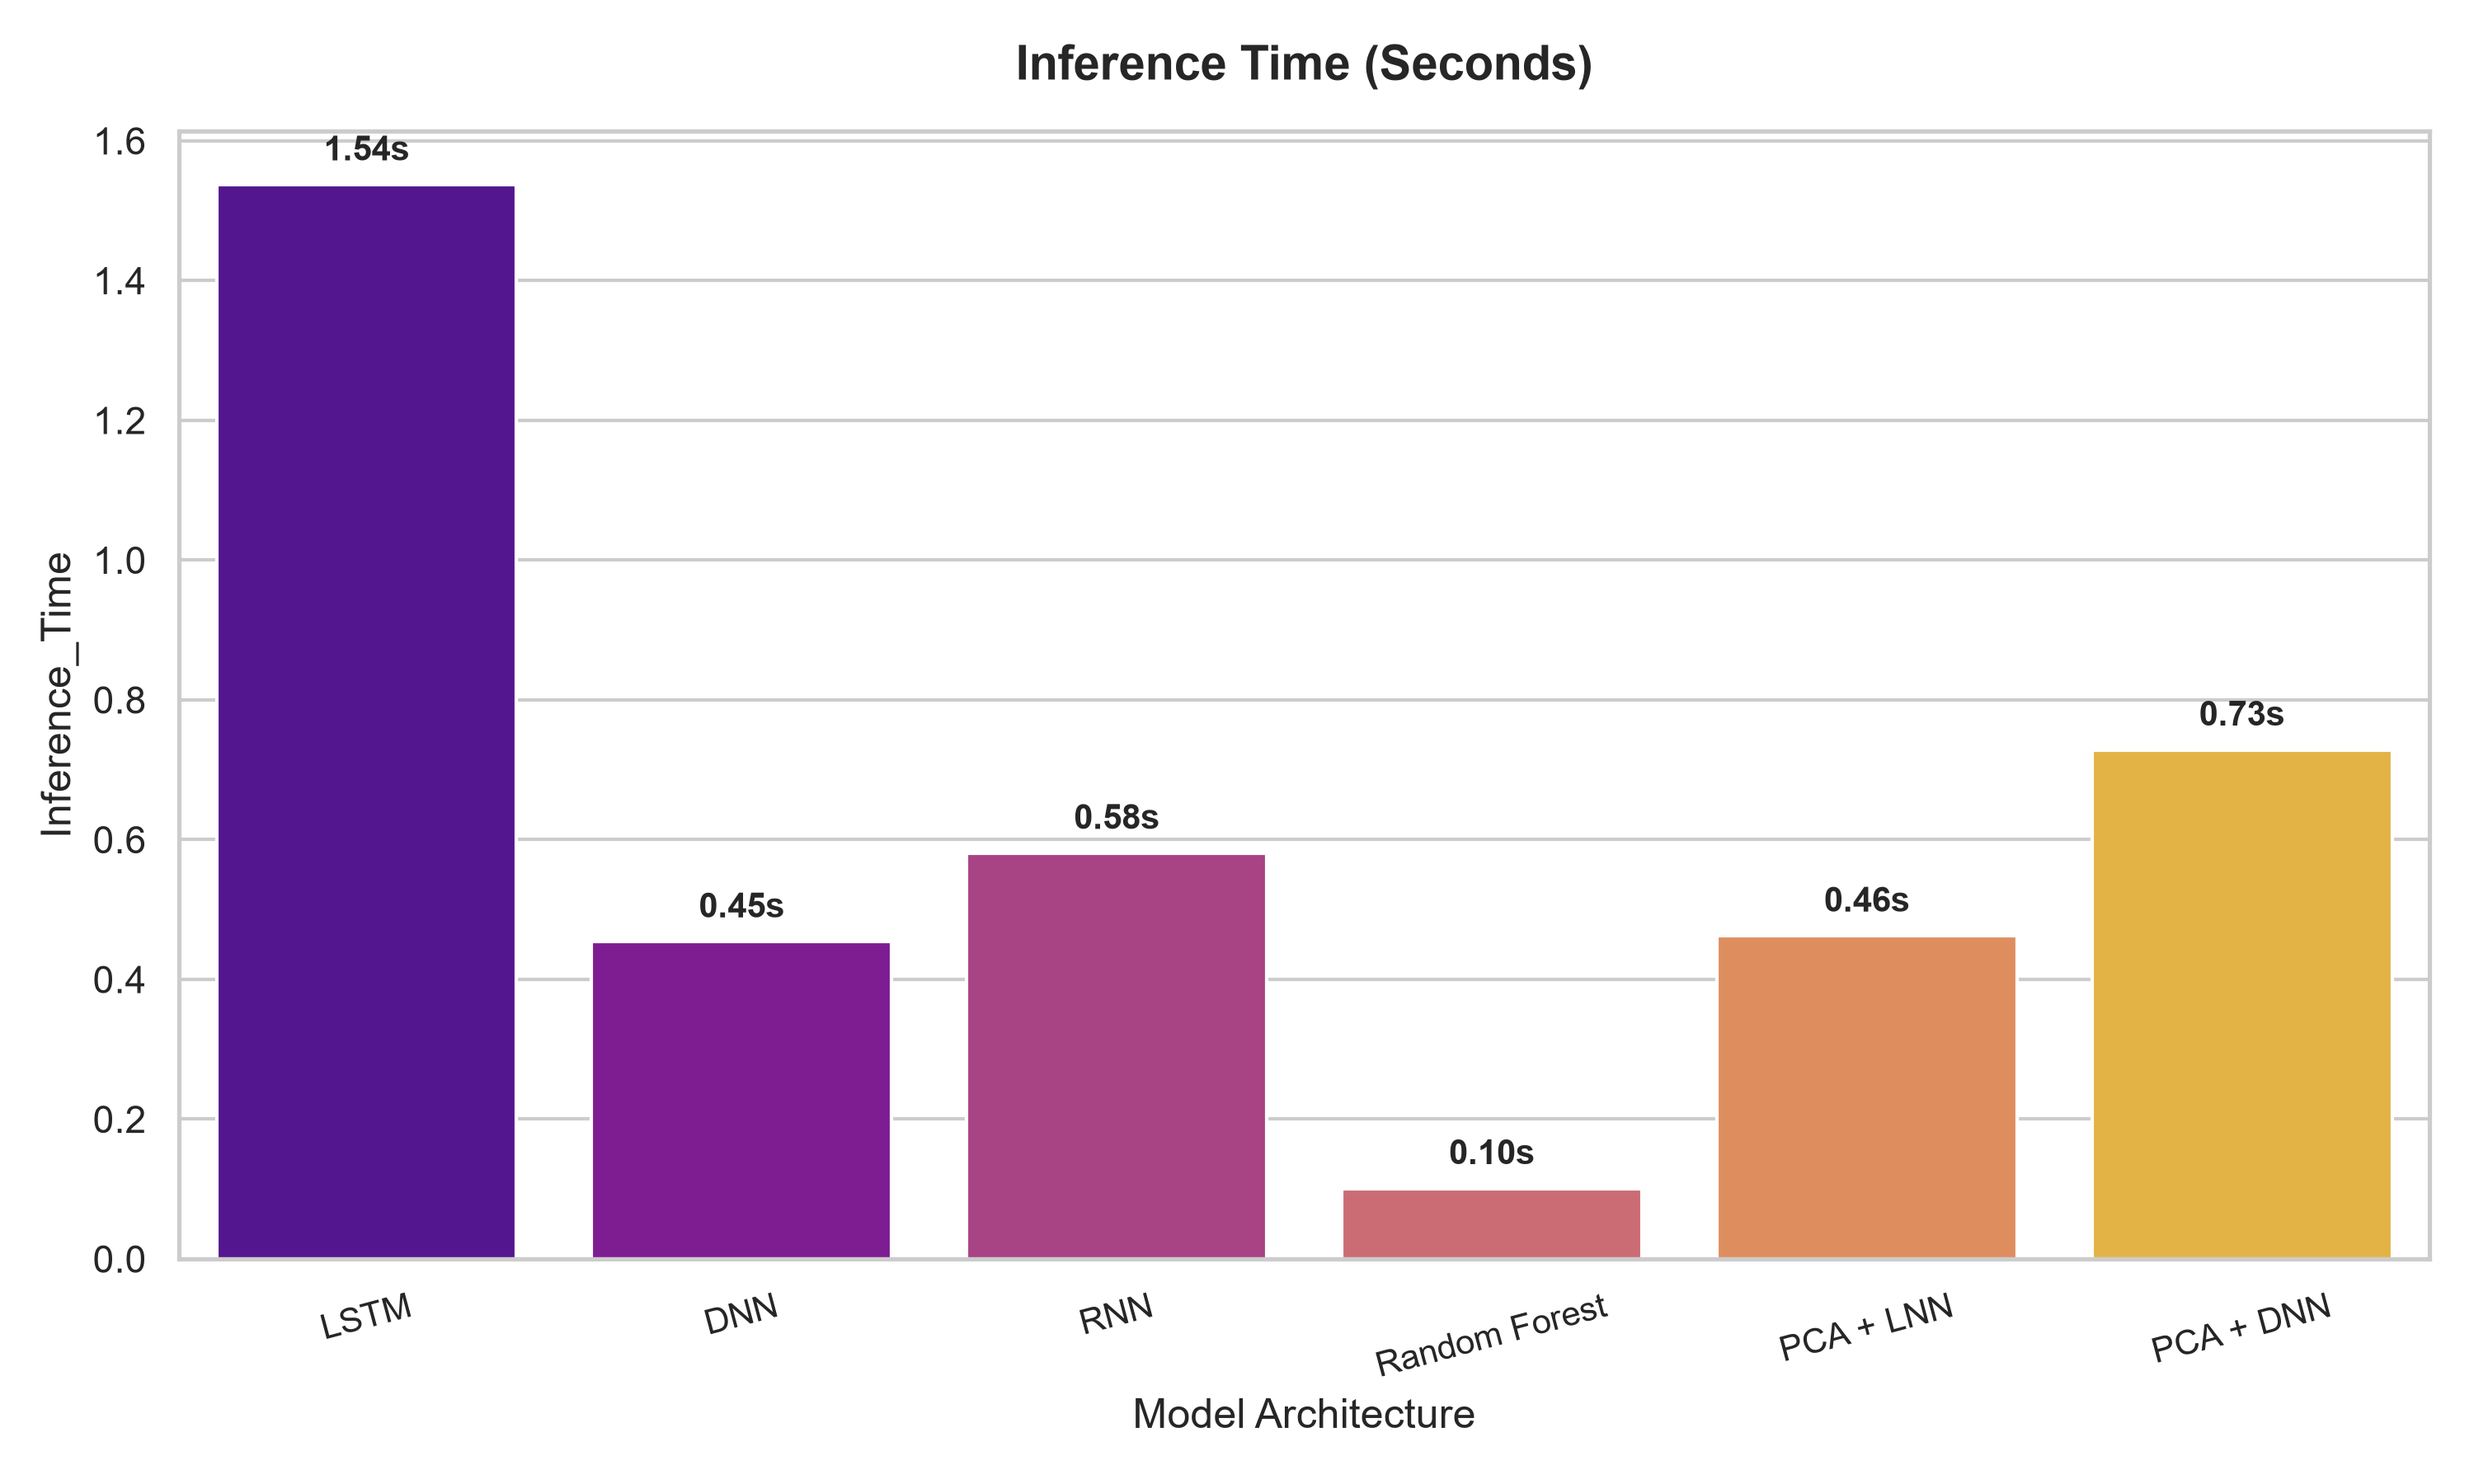
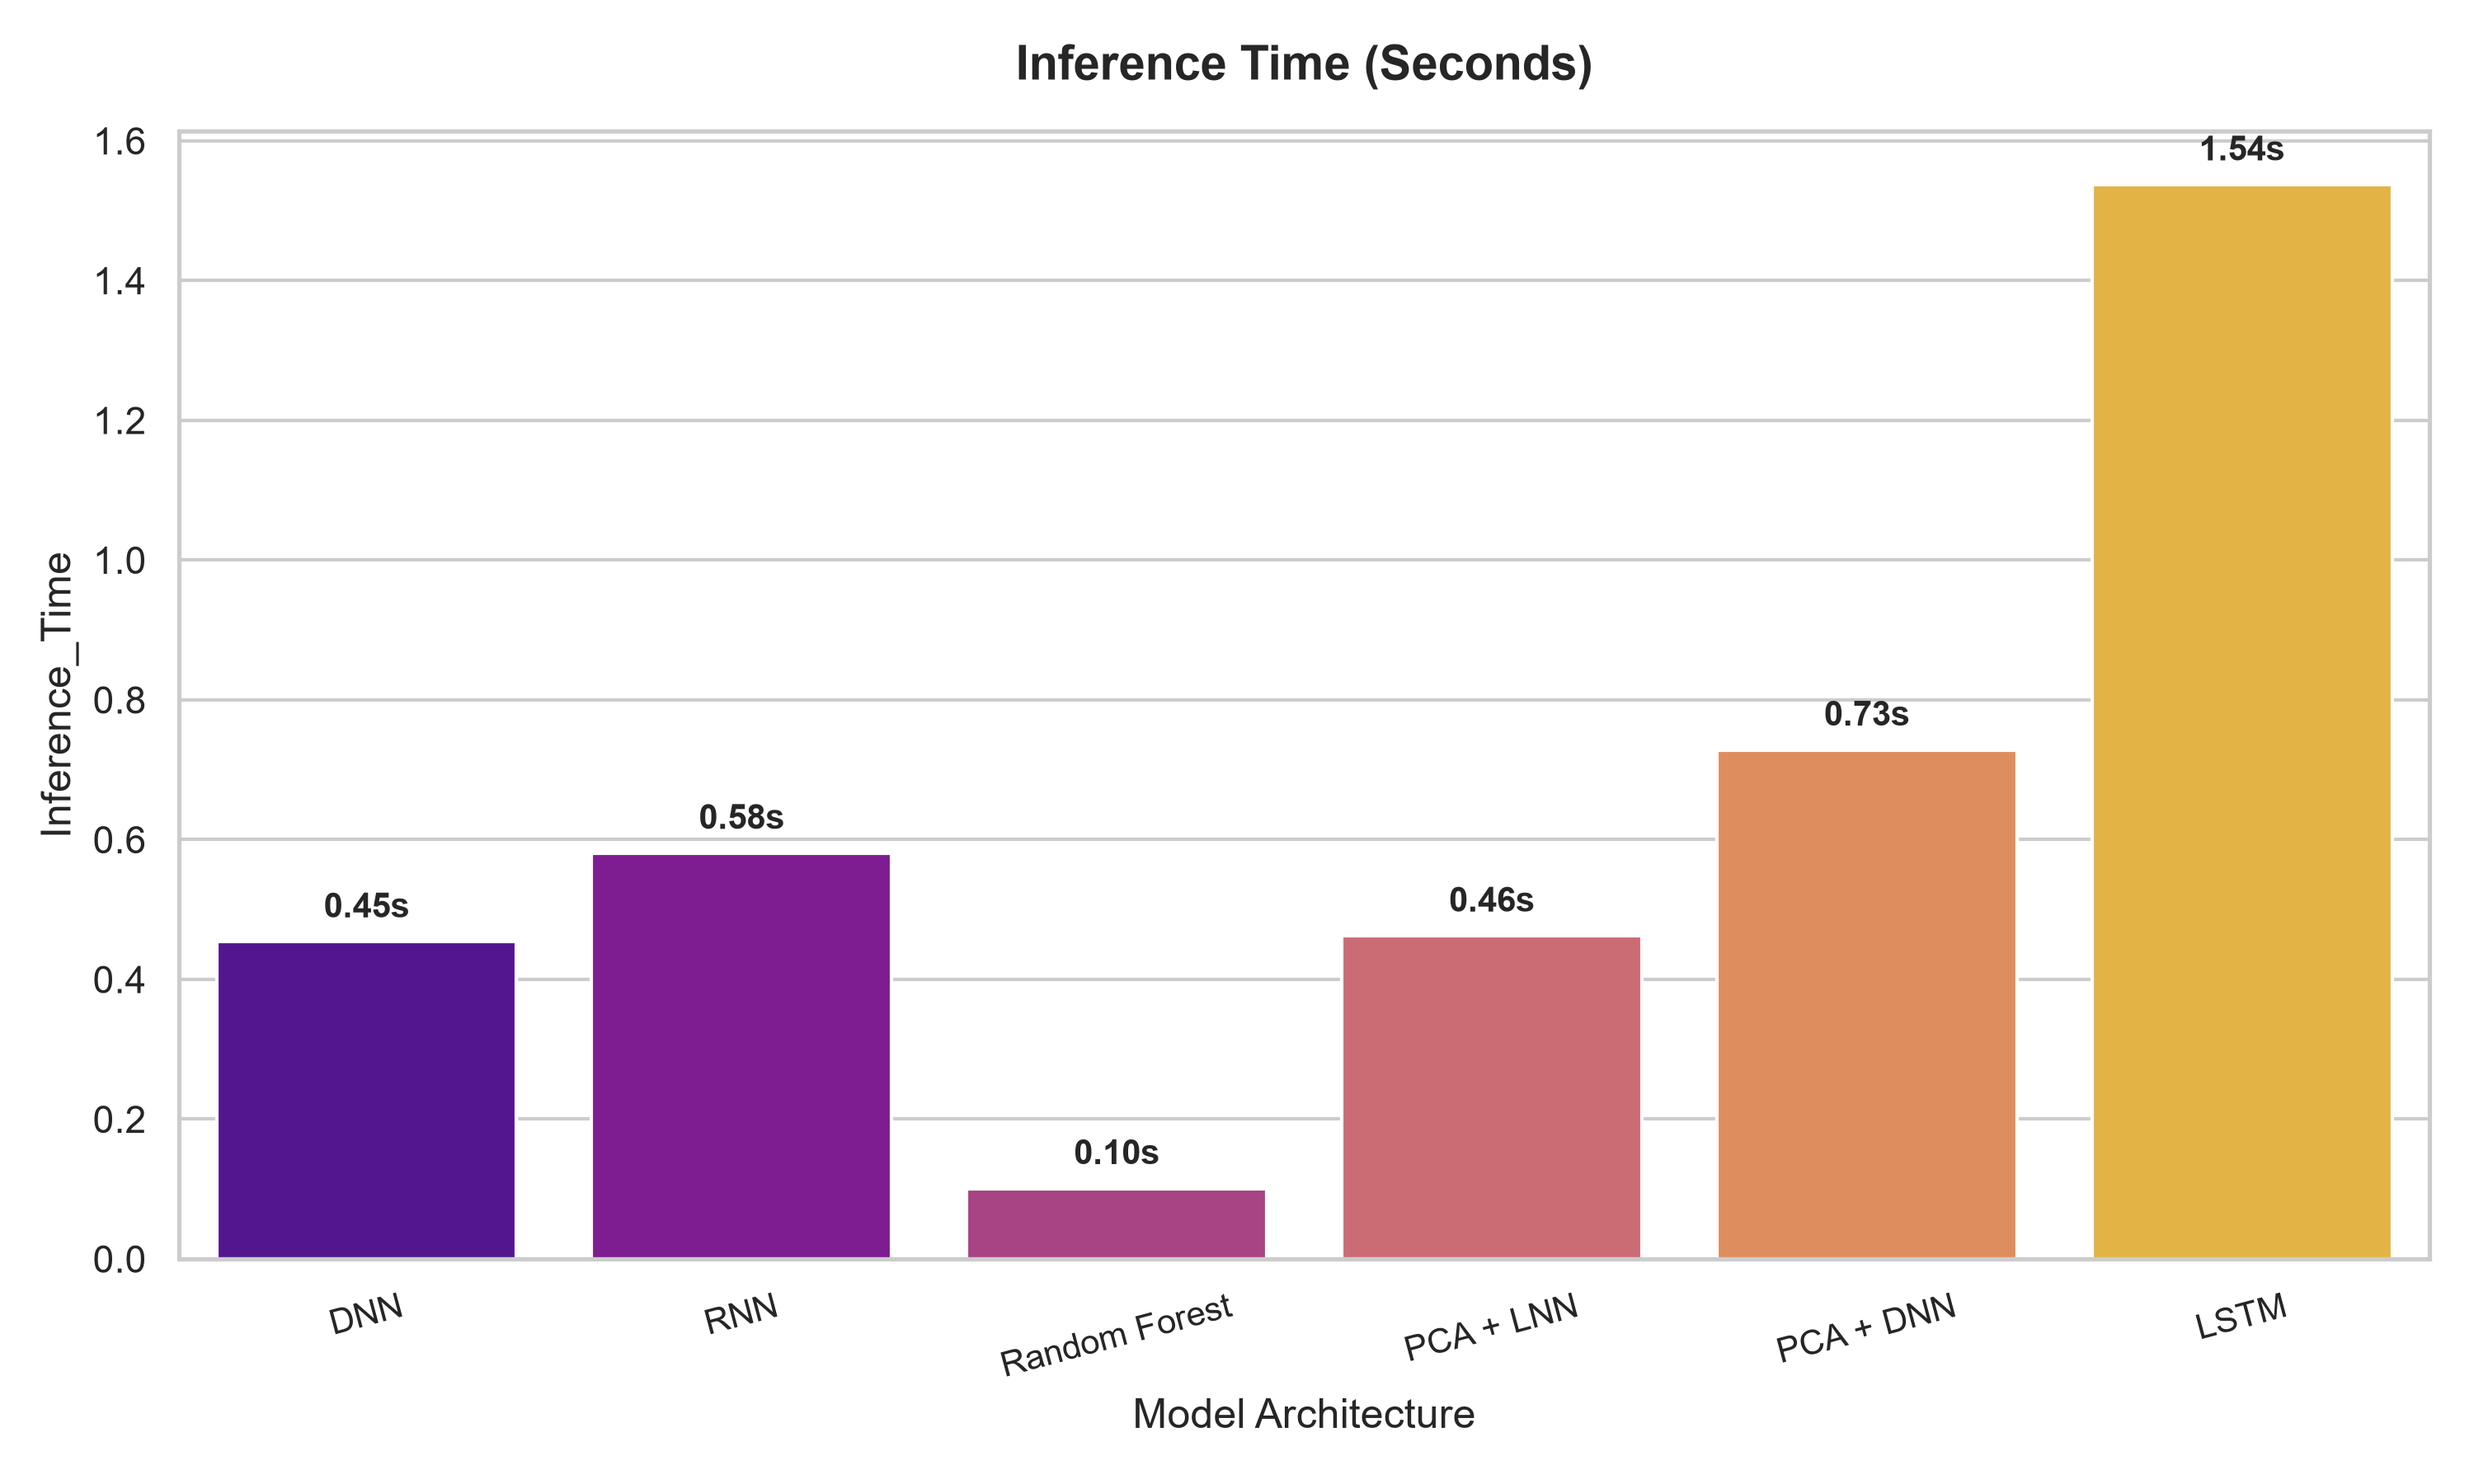
Output folder graph updated

diff --git a/IDS_CICIoT2023/preprocessing.py b/IDS_CICIoT2023/preprocessing.py
@@ -1,5 +1,6 @@
 import os
 import pandas as pd
+# pyrefly: ignore[missing-import]
 import numpy as np
 from sklearn.preprocessing import StandardScaler, LabelEncoder
 from sklearn.decomposition import PCA

diff --git a/IDS_CICIoT2023/output/reports/IDS_CICIoT2023_Report.md b/IDS_CICIoT2023/output/reports/IDS_CICIoT2023_Report.md
@@ -78,12 +78,12 @@ All tuning attempt logs were recorded in `output/hyperparameter_tuning/`.
 
 | Model | Accuracy | Precision | Recall | F1 Score | Specificity | FPR | FNR | ROC-AUC | PR-AUC | Train Time (s) | Infer Time (s) |
 | --- | --- | --- | --- | --- | --- | --- | --- | --- | --- | --- | --- |
-| LSTM | 0.9630 | 0.7674 | 0.7771 | 0.7467 | 0.9989 | 0.0011 | 0.2164 | 0.9369 | 0.7998 | 356.43 | 1.54 |
 | DNN | 0.7653 | 0.5310 | 0.6068 | 0.5304 | 0.9926 | 0.0074 | 0.3932 | 0.9646 | 0.6072 | 594.75 | 0.45 |
 | RNN | 0.9045 | 0.7074 | 0.7037 | 0.6982 | 0.9970 | 0.0030 | 0.2876 | 0.9955 | 0.7399 | 74.31 | 0.58 |
 | Random Forest | 0.9786 | 0.8767 | 0.8319 | 0.8435 | 0.9992 | 0.0008 | 0.1494 | 0.9975 | 0.8523 | 0.34 | 0.10 |
 | PCA + LNN | 0.7428 | 0.4884 | 0.5245 | 0.4772 | 0.9919 | 0.0081 | 0.4755 | 0.9370 | 0.5432 | 110.90 | 0.46 |
 | PCA + DNN | 0.7356 | 0.5135 | 0.5199 | 0.4553 | 0.9917 | 0.0083 | 0.4801 | 0.9497 | 0.5336 | 137.21 | 0.73 |
+| LSTM | 0.9630 | 0.7674 | 0.7771 | 0.7467 | 0.9989 | 0.0011 | 0.2164 | 0.9369 | 0.7998 | 356.43 | 1.54 |
 
 ---
 
